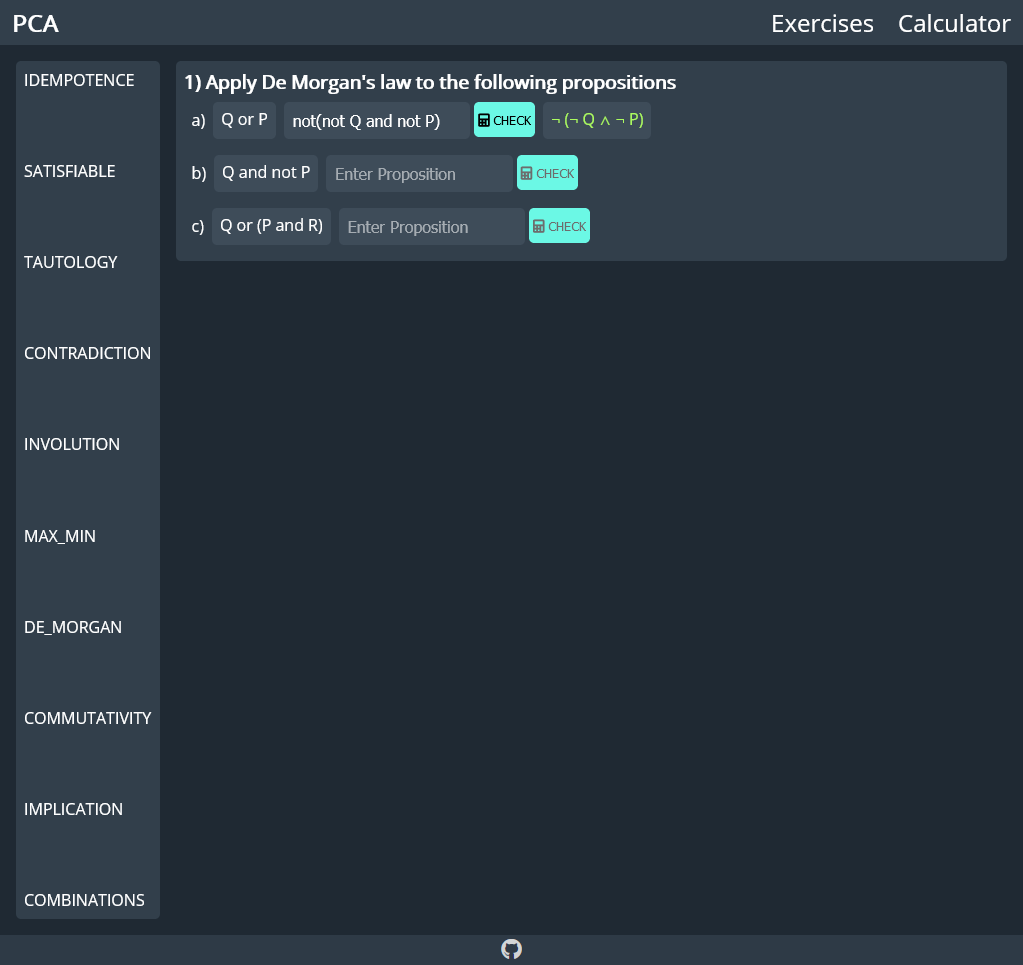
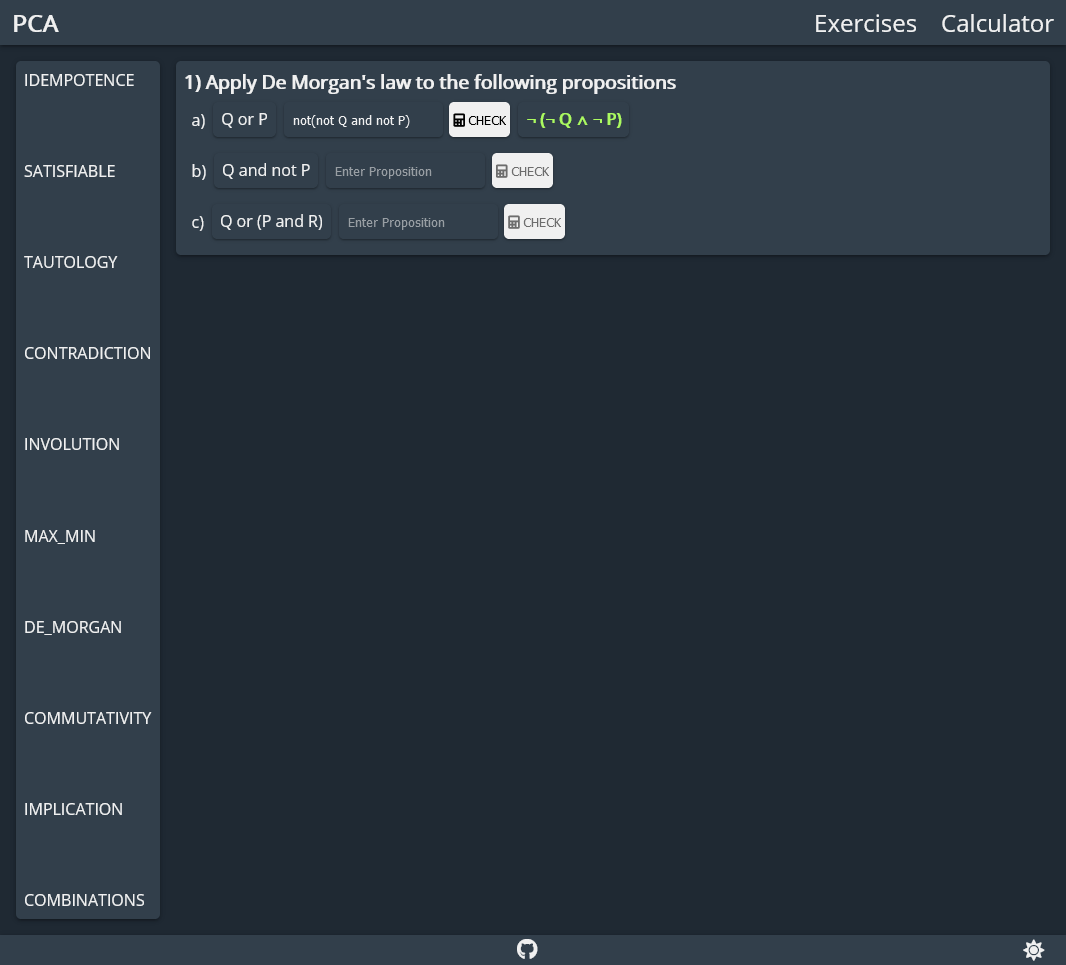
Updated Readme

diff --git a/src/App.vue b/src/App.vue
@@ -10,7 +10,7 @@
       <a id="github" title="Go to GitHub" href="https://github.com/p2424630/PCA-Front" target="_blank">
         <i class="fab fa-github fa-lg"></i>
       </a>
-      <label id="themeSwitch" class="fas fa-sun fa-lg"></label>
+      <label id="themeSwitch" class="fas fa-sun fa-lg" ref="themeSwitch"></label>
     </footer>
   </div>
 </template>
@@ -27,15 +27,13 @@ export default {
     };
   },
   mounted() {
-    themeSwitch.addEventListener("click", (e) => {
-      if (document.documentElement.hasAttribute("data-theme")) {
-        document.documentElement.removeAttribute("data-theme");
-        themeSwitch.classList.add("fa-sun");
-        themeSwitch.classList.remove("fa-moon");
+    themeSwitch.addEventListener("click", () => {
+      if (document.documentElement.classList.contains("light")) {
+        document.documentElement.classList.remove("light");
+        this.$refs.themeSwitch.classList.replace("fa-moon", "fa-sun");
       } else {
-        document.documentElement.setAttribute("data-theme", "light");
-        themeSwitch.classList.remove("fa-sun");
-        themeSwitch.classList.add("fa-moon");
+        document.documentElement.classList.add("light");
+        this.$refs.themeSwitch.classList.replace("fa-sun", "fa-moon");
       }
     });
   },
@@ -58,7 +56,7 @@ export default {
   --shadow1dp: 0 1px 1px 0 rgba(0, 0, 0, 0.14), 0 2px 1px -1px rgba(0, 0, 0, 0.12), 0 1px 3px 0 rgba(0, 0, 0, 0.2);
   --shadow2dp: 0 2px 2px 0 rgba(0, 0, 0, 0.14), 0 3px 1px -2px rgba(0, 0, 0, 0.12), 0 1px 5px 0 rgba(0, 0, 0, 0.2);
 }
-[data-theme="light"] {
+.light {
   --bg-darker: var(--white);
   --bg: #e4e4e4;
   --primary: #00a4d6;
@@ -109,7 +107,7 @@ button:focus {
 }
 input,
 select {
-  background-color: var(--menu-bg);
+  background-color: var(--bg);
   box-shadow: var(--shadow1dp);
   border-radius: 5px;
   color: var(--text-color);

diff --git a/src/views/Calculator.vue b/src/views/Calculator.vue
@@ -199,6 +199,7 @@ export default {
   margin: 0 0.25em;
 }
 .calculator-view #allResults {
+  background-color: var(--bg);
   box-shadow: var(--shadow2dp);
   padding: 0.5rem;
   border-radius: 5px;

diff --git a/README.md b/README.md
@@ -52,6 +52,14 @@ The second form have as a second input a dropdown menu with all of the Laws curr
 
 [calculator_2]: https://github.com/p2424630/PCA-Front/blob/main/images/calculator_example_2.png "pcabuilder image"
 
+### Theme
+
+The website offers light theme easily activated from the button down-right.
+
+![alt text][exercises_light_1]
+
+[exercises_light_1]: https://github.com/p2424630/PCA-Front/blob/main/images/exercises_light_1.png "theme image"
+
 ---
 
 ## License
